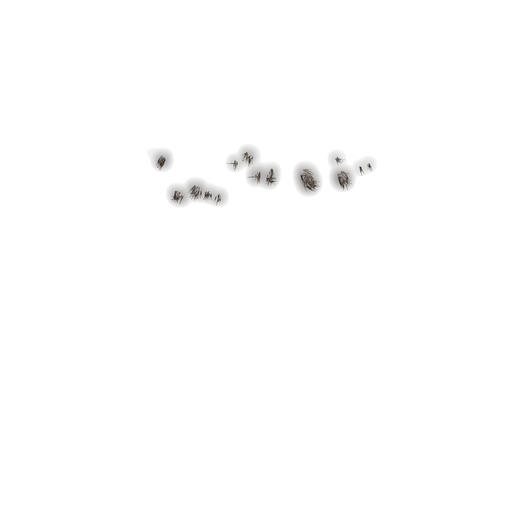
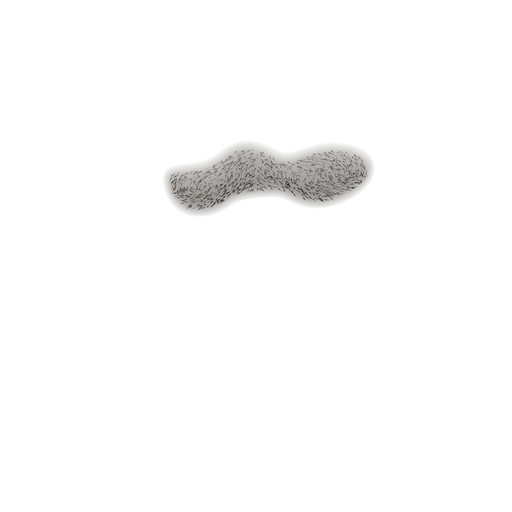
Peluria realistica rifatta come barba di tre giorni (baffo_12)
Claude-Session: https://claude.ai/code/session_01Xai83E1Ax4kpX5EsYMDAnd

Changed region(s): [[0.2812, 0.2812, 0.75, 0.4375]]

diff --git a/tools/genera_baffi_realistici.py b/tools/genera_baffi_realistici.py
@@ -42,6 +42,10 @@ FASI = [0.25, 0.5, 0.75, 1.0]   # lunghezza dei peli in ogni fase di crescita
 def sagoma(id_):
     """Maschera della sagoma a G x G, ammorbidita (via le sbavature da pennello)."""
     a = Image.open(SRC / f"{id_}.png").getchannel("A").resize((G, G), Image.BILINEAR)
+    if id_ == "14_peluria":
+        # il disegno è fatto a puntini: per la versione vera serve una zona unica (barba di 3 giorni)
+        a = a.filter(ImageFilter.GaussianBlur(SS * 18)).point(lambda v: 255 if v > 18 else 0)
+        return np.array(a) > 0
     a = a.filter(ImageFilter.GaussianBlur(SS * 3)).point(lambda v: 255 if v > 110 else 0)
     return np.array(a) > 0
 
@@ -92,8 +96,8 @@ def disegna(id_, colore, fase, seed):
         raise SystemExit(f"{id_}: sagoma vuota")
     area = len(xs)
     peluria = id_ == "14_peluria"
-    n_peli = int(area / (SS * SS) * (0.42 if not peluria else 0.9) * (0.45 + 0.55 * fase))
-    lungo = SS * (9 + 15 * fase) * (0.5 if peluria else 1.0)
+    n_peli = int(area / (SS * SS) * (0.42 if not peluria else 0.30) * (0.45 + 0.55 * fase))
+    lungo = SS * (9 + 15 * fase) * (0.3 if peluria else 1.0)
 
     alfa = Image.new("L", (G, G), 0)
     col = Image.new("RGB", (G, G), tuple(int(v * 0.8) for v in colore[0]))
@@ -122,7 +126,7 @@ def disegna(id_, colore, fase, seed):
 
     # velo sotto i peli: densità alla radice, la pelle si intravede
     velo = Image.fromarray((m * 255).astype(np.uint8)).filter(ImageFilter.GaussianBlur(SS * 4))
-    velo = velo.point(lambda v: int(v * (0.7 + 0.3 * fase) * (0.5 if peluria else 1)))
+    velo = velo.point(lambda v: int(v * (0.7 + 0.3 * fase) * (0.25 if peluria else 1)))
     alfa = Image.fromarray(np.maximum(np.array(alfa), np.array(velo)))
 
     a = np.array(alfa, dtype=np.float32) / 255
